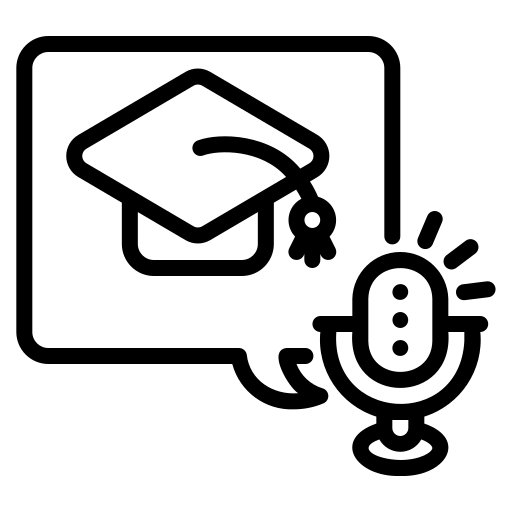
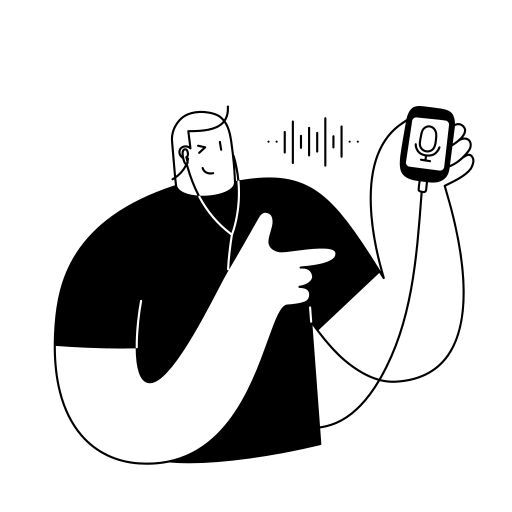
cabina

diff --git a/index.html b/index.html
@@ -37,7 +37,7 @@
 
     <div class="tarjetas">
       <a class="tarjeta" href="cabina.html">
-        <div class="icono">🎙</div>
+        <img src="img/cabina-icon.png" alt="Cabina" class="icono-img" />
         <h3>Cabina</h3>
         <p>Graba y administra los episodios del podcast escolar.</p>
         <span class="boton-tarjeta">Entrar a la cabina</span>

diff --git a/sw.js b/sw.js
@@ -17,7 +17,8 @@ const CORE = [
   "js/notificaciones.js",
   "js/pwa.js",
     "img/escudo.png",
-  "img/icono-app.png",
+    "img/icono-app.png",
+  "img/cabina-icon.png",
   "img/podcast-icon.png",
   "img/radio-anim.gif"
 ];
